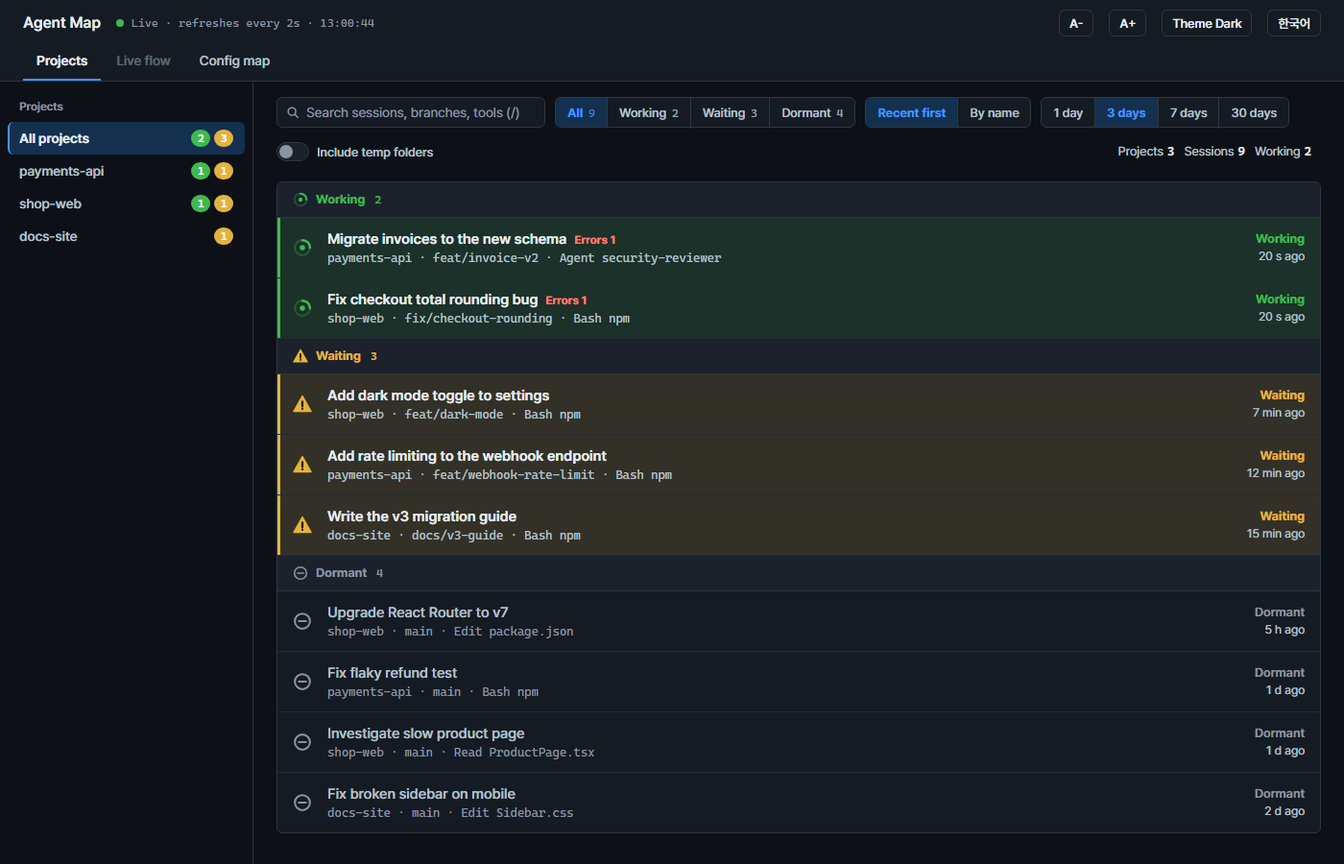
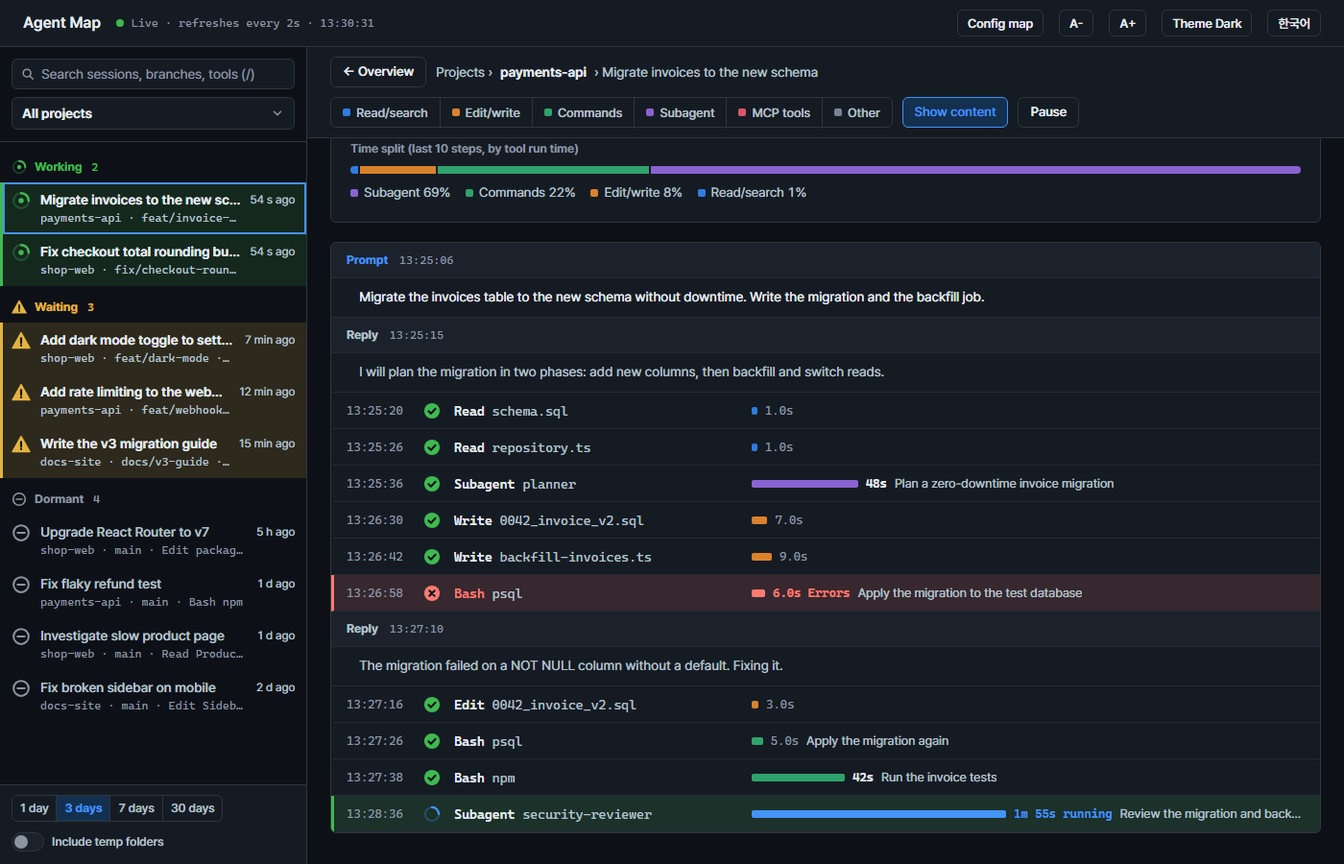
feat: session sidebar grouped by state with detail pane (0.11.0)
- Sidebar lists sessions as Working / Waiting / Dormant, project picker menu, search, period, temp-folder switch
- Selected session opens in the main pane; overview shows counts and project details
- Fix: 'just now' label crashed (returntt typo from the i18n pass)
- New screenshots and GIFs

diff --git a/scripts/live.html b/scripts/live.html
@@ -26,16 +26,13 @@ button,select,input{font:inherit;color:inherit}:focus-visible{outline:2px solid 
 .ic{display:inline-flex;width:20px;height:20px;flex:none}.ic svg{width:20px;height:20px}.ic .m{stroke:var(--onicon)}
 .ic.running{color:var(--run)}.ic.idle{color:var(--wait)}.ic.dormant{color:var(--dorm)}
 /* header */
-header{background:var(--surface);border-bottom:1px solid var(--line);padding:10px 24px 0}
+header{background:var(--surface);border-bottom:1px solid var(--line);padding:10px 24px}
 .top{display:flex;align-items:center;gap:16px;flex-wrap:wrap}
 .brand{font:600 16px/24px var(--sans);margin:0}
 .live{font:400 12px/18px var(--mono);color:var(--mut);display:flex;align-items:center;gap:8px}
 .live i{width:8px;height:8px;border-radius:50%;background:var(--run-bar)}.live.off{color:var(--err)}.live.off i{background:var(--err)}
 .sp{flex:1}
-.tabs{display:flex;gap:2px;margin-top:6px}
-.tab{height:40px;padding:0 14px;border:0;border-bottom:2px solid transparent;background:none;color:var(--sub);cursor:pointer;font:500 14px/1 var(--sans);text-decoration:none;display:inline-flex;align-items:center}
-.tab[aria-selected="true"]{color:var(--fg);border-bottom-color:var(--accent);font-weight:600}.tab:disabled{opacity:.45;cursor:default}
-.tab:hover:not(:disabled){color:var(--fg);background:var(--hover)}
+a.btn{text-decoration:none;display:inline-flex;align-items:center}
 /* controls */
 .btn{height:32px;padding:0 12px;background:var(--surface);border:1px solid var(--line);border-radius:var(--r);color:var(--fg);cursor:pointer;font:500 13.5px/1 var(--sans);transition:background-color .12s var(--ease)}
 .btn:hover{background:var(--hover)}.btn.sm{height:28px;padding:0 10px;font-size:13px}
@@ -44,7 +41,7 @@ header{background:var(--surface);border-bottom:1px solid var(--line);padding:10p
 .btn:disabled{opacity:.5;cursor:default}
 .lnk{background:none;border:0;color:var(--accent);cursor:pointer;font:500 13px/1 var(--sans);padding:0 4px;height:28px;text-decoration:underline}
 .sch{position:relative}.sch svg{position:absolute;left:10px;top:9px;width:14px;height:14px;color:var(--mut);pointer-events:none}
-input[type=search]{height:32px;width:280px;padding:0 10px 0 30px;background:var(--surface);border:1px solid var(--line);border-radius:var(--r);font-size:14px}
+input[type=search]{height:32px;width:100%;padding:0 10px 0 30px;background:var(--surface);border:1px solid var(--line);border-radius:var(--r);font-size:14px}
 input[type=search]:focus{outline:2px solid var(--accent);outline-offset:-1px;border-color:var(--accent)}input::placeholder{color:var(--mut)}
 .seg{display:inline-flex;border:1px solid var(--line);border-radius:var(--r);overflow:hidden;background:var(--surface)}
 .seg button{height:30px;padding:0 12px;border:0;border-left:1px solid var(--line);background:transparent;color:var(--sub);cursor:pointer;font:500 13px/1 var(--sans)}
@@ -55,20 +52,26 @@ input[type=search]:focus{outline:2px solid var(--accent);outline-offset:-1px;bor
 .sw i{position:relative;flex:none;width:34px;height:20px;border-radius:10px;background:var(--subtle);border:1px solid var(--line)}
 .sw i::after{content:"";position:absolute;top:2px;left:2px;width:14px;height:14px;border-radius:7px;background:var(--mut);transition:transform .12s var(--ease)}
 .sw[aria-checked="true"] i{background:var(--accent);border-color:var(--accent)}.sw[aria-checked="true"] i::after{transform:translateX(14px);background:var(--onaccent)}
-/* projects: sidebar + list */
-.wrap{display:flex;flex-direction:column;min-height:0}
-.pv{flex:1;display:grid;grid-template-columns:264px minmax(0,1fr);min-height:0}
-.side{border-right:1px solid var(--line);background:var(--canvas);overflow:auto;padding:16px 8px}
-.sh{font:600 12px/20px var(--sans);color:var(--mut);padding:0 12px 6px}
-.si2{display:flex;align-items:center;gap:8px;width:100%;min-height:34px;padding:0 12px 0 10px;border:0;border-left:2px solid transparent;border-radius:var(--r);background:none;color:var(--sub);text-align:left;cursor:pointer;font:500 14px/20px var(--sans)}
-.si2:hover{background:var(--hover);color:var(--fg)}
-.si2.on{background:var(--sel);color:var(--fg);border-left-color:var(--accent);font-weight:600}
-.si2 .sn{flex:1;overflow:hidden;text-overflow:ellipsis;white-space:nowrap}
+/* master-detail: sessions grouped by state on the left (like Paseo's workspace list), the selected session on the right */
+.app{display:grid;grid-template-columns:320px minmax(0,1fr);min-height:0}
+.mainc{display:flex;flex-direction:column;min-height:0}
+.side{display:flex;flex-direction:column;min-height:0;border-right:1px solid var(--line);background:var(--canvas)}
+.sbtop{position:relative;display:flex;flex-direction:column;gap:8px;padding:12px;border-bottom:1px solid var(--line)}
+.pick{display:flex;align-items:center;gap:8px;width:100%;height:34px;padding:0 10px;background:var(--surface);border:1px solid var(--line);border-radius:var(--r);cursor:pointer;text-align:left;font:600 14px/1 var(--sans)}
+.pick:hover{background:var(--hover)}.pick .pn{flex:1;overflow:hidden;text-overflow:ellipsis;white-space:nowrap}.pick svg{width:14px;height:14px;color:var(--mut);flex:none}
+.pmenu{position:absolute;left:12px;right:12px;top:calc(100% - 8px);z-index:6;max-height:50vh;overflow:auto;background:var(--surface);border:1px solid var(--line);border-radius:var(--r);padding:4px;box-shadow:0 8px 24px rgba(0,0,0,.18)}
+.pi{display:flex;align-items:center;gap:8px;width:100%;min-height:32px;padding:0 8px;border:0;border-radius:4px;background:none;text-align:left;cursor:pointer;color:var(--sub);font:500 14px/20px var(--sans)}
+.pi:hover{background:var(--hover);color:var(--fg)}.pi.on{background:var(--sel);color:var(--fg);font-weight:600}
+.pi .sn{flex:1;overflow:hidden;text-overflow:ellipsis;white-space:nowrap}
 .sc{display:inline-flex;gap:4px}.sc i{font:600 11.5px/18px var(--mono);font-style:normal;min-width:20px;text-align:center;padding:0 5px;border-radius:9px;color:#fff}
 .sc i.run{background:var(--run-bar)}.sc i.idle{background:var(--wait-bar)}
-.pm{overflow:auto;padding:16px 24px 32px}
-.bar{display:flex;gap:10px;align-items:center;flex-wrap:wrap;margin-bottom:16px}
-.sum{margin-left:auto;color:var(--sub);font-size:13px}.sum b{font:600 13px/20px var(--mono);color:var(--fg);margin:0 10px 0 4px}
+.sbody{flex:1;overflow:auto;padding:4px 0 12px}
+.sbfoot{display:flex;align-items:center;gap:8px 12px;flex-wrap:wrap;padding:10px 12px;border-top:1px solid var(--line);background:var(--surface)}
+.sbfoot .seg button{height:26px;padding:0 8px;font-size:12.5px}.sbfoot .sw{height:26px;font-size:12.5px}
+.pm{flex:1;overflow:auto;padding:16px 24px 32px}
+.ovs{display:grid;grid-template-columns:repeat(3,minmax(0,1fr));border:1px solid var(--line);border-radius:var(--r);background:var(--surface);margin-bottom:16px}
+.ovs div{padding:14px 18px;border-left:1px solid var(--line)}.ovs div:first-child{border-left:0}
+.ovs b{display:block;font:600 24px/32px var(--mono)}.ovs span{font:500 13px/20px var(--sans);color:var(--mut)}.ovs .run b{color:var(--run)}.ovs .wait b{color:var(--wait)}
 .phd{background:var(--surface);border:1px solid var(--line);border-radius:var(--r);padding:16px 20px;margin-bottom:16px}
 .phn{display:flex;align-items:baseline;gap:12px;flex-wrap:wrap}.phn b{font:600 20px/28px var(--sans)}
 .path{font:400 12.5px/20px var(--mono);color:var(--mut);margin:0;overflow-wrap:anywhere}
@@ -80,29 +83,29 @@ input[type=search]:focus{outline:2px solid var(--accent);outline-offset:-1px;bor
 .ub{display:block;height:6px;border-radius:3px;background:var(--line2);overflow:hidden}.ub i{display:block;height:100%;background:var(--accent);border-radius:3px}
 .uc{font:400 12px/16px var(--mono);color:var(--mut);text-align:right}
 .tl{display:flex;gap:6px;flex-wrap:wrap}.tl span{font:400 12.5px/20px var(--mono);border:1px solid var(--line);border-radius:var(--r);padding:0 8px;color:var(--sub);background:var(--subtle)}
-.list{border:1px solid var(--line);border-radius:var(--r);background:var(--surface);overflow:hidden}
-.gr{display:flex;align-items:center;gap:8px;padding:8px 16px;background:var(--subtle);border-bottom:1px solid var(--line);font:700 13px/20px var(--sans)}
+.gr{display:flex;align-items:center;gap:8px;padding:12px 12px 6px;font:700 12.5px/20px var(--sans)}
 .gr .gc{font:600 12px/20px var(--mono);margin-left:2px}
-.gr.running{color:var(--run)}.gr.idle{color:var(--wait)}.gr.dormant{color:var(--dorm)}.gr.name{color:var(--fg)}
+.gr.running{color:var(--run)}.gr.idle{color:var(--wait)}.gr.dormant{color:var(--dorm)}
 .gr .ic,.gr .ic svg{width:16px;height:16px}
-.r{position:relative;border-bottom:1px solid var(--line2)}.r:last-child{border-bottom:0}
-.rm{display:grid;grid-template-columns:24px minmax(0,1fr) auto;gap:0 12px;align-items:center;width:100%;padding:11px 16px 11px 13px;border:0;border-left:3px solid transparent;background:none;text-align:left;cursor:pointer;color:inherit}
-.r.running{background:var(--run-bg)}.r.running .rm{border-left-color:var(--run-bar)}
-.r.idle{background:var(--wait-bg)}.r.idle .rm{border-left-color:var(--wait-bar)}
-.r:hover{filter:brightness(.97)}.r.dormant:hover{filter:none;background:var(--hover)}
-.rt{font:600 15px/22px var(--sans);color:var(--fg);overflow:hidden;text-overflow:ellipsis;white-space:nowrap;display:block}
-.r.dormant .rt{font-weight:500;color:var(--sub)}
+.sri{position:relative;border-left:3px solid transparent}
+.sim{display:grid;grid-template-columns:20px minmax(0,1fr) auto;gap:0 10px;align-items:start;width:100%;padding:8px 12px 8px 9px;border:0;background:none;text-align:left;cursor:pointer;color:inherit}
+.sim .ic{margin-top:1px}
+.sri.running{background:var(--run-bg);border-left-color:var(--run-bar)}
+.sri.idle{background:var(--wait-bg);border-left-color:var(--wait-bar)}
+.sri:hover{filter:brightness(.97)}.sri.dormant:hover{filter:none;background:var(--hover)}
+.sri.sel{box-shadow:inset 0 0 0 2px var(--accent)}
+.rt{font:600 14px/20px var(--sans);color:var(--fg);display:block;overflow:hidden;text-overflow:ellipsis;white-space:nowrap}
+.sri.dormant .rt{font-weight:500;color:var(--sub)}
 .etag{font:700 12px/18px var(--sans);color:var(--err);margin-left:8px}
-.rmeta{font:400 12.5px/18px var(--mono);color:var(--sub);overflow:hidden;text-overflow:ellipsis;white-space:nowrap;display:block}
-.r.dormant .rmeta{color:var(--mut)}
-.rr{text-align:right;min-width:92px}.rs{display:block;font:700 13px/18px var(--sans)}.rtm{display:block;font:400 12.5px/18px var(--sans);color:var(--sub)}
-.rs.running{color:var(--run)}.rs.idle{color:var(--wait)}.rs.dormant{color:var(--dorm);font-weight:600}
-.rx{position:absolute;right:12px;top:50%;transform:translateY(-50%);opacity:0;height:28px}
-.r:hover .rx,.rx:focus-visible{opacity:1}
-.more{display:block;width:100%;padding:10px 16px;border:0;border-top:1px solid var(--line2);background:var(--subtle);color:var(--accent);font:600 13px/20px var(--sans);text-align:left;cursor:pointer}
+.rmeta{font:400 12px/18px var(--mono);color:var(--sub);overflow:hidden;text-overflow:ellipsis;white-space:nowrap;display:block}
+.sri.dormant .rmeta{color:var(--mut)}
+.rtm{font:400 12px/20px var(--sans);color:var(--sub);white-space:nowrap}
+.rx{position:absolute;right:8px;top:6px;opacity:0;width:26px;height:26px;padding:0;display:flex;align-items:center;justify-content:center}.rx svg{width:14px;height:14px}
+.sri:hover .rx,.rx:focus-visible{opacity:1}.sri.dormant:hover .rtm{visibility:hidden}
+.more{display:block;width:100%;padding:8px 12px 8px 41px;border:0;background:none;color:var(--accent);font:600 13px/20px var(--sans);text-align:left;cursor:pointer}
 .more:hover{background:var(--hover)}
 .none{padding:48px 24px;text-align:center;color:var(--sub)}.none p{margin:0 0 8px}.none p:first-child{font-size:16px;color:var(--fg);font-weight:600}
-.ro .pa .btn,.ro .rx,.ro .fa,.ro #trashb,.ro #txtb,.ro .cleanb,.ro a.tab{display:none!important}
+.ro .pa .btn,.ro .rx,.ro .fa,.ro #trashb,.ro #txtb,.ro .cleanb,.ro #cfg{display:none!important}.ro .sri.dormant:hover .rtm{visibility:visible}
 /* flow */
 .fbar{display:flex;gap:10px;align-items:center;flex-wrap:wrap;padding:10px 24px;background:var(--surface);border-bottom:1px solid var(--line)}
 .bc{display:flex;align-items:center;gap:8px;flex-wrap:wrap;font-size:14px;color:var(--sub)}.bc b{color:var(--fg);font-weight:600}
@@ -177,46 +180,39 @@ dialog h2{font:600 18px/26px var(--sans);margin:0 0 8px}
 .dperm[aria-checked="true"] .tx2 b{color:var(--err)}
 .df{display:flex;gap:8px;justify-content:flex-end}
 #toast{position:fixed;left:24px;bottom:24px;max-width:min(560px,calc(100% - 48px));background:var(--fg);color:var(--canvas);padding:10px 14px;border-radius:var(--r);font-size:14px;line-height:20px;z-index:10}
-@media (max-width:900px){.pv{grid-template-columns:1fr;grid-template-rows:auto minmax(0,1fr)}.side{display:flex;gap:4px;overflow:auto;border-right:0;border-bottom:1px solid var(--line);padding:8px 12px}.sh{display:none}.si2{width:auto;flex:none}.kpis{grid-template-columns:repeat(3,minmax(0,1fr))}.kpi:nth-child(4){border-left:0}}
+@media (max-width:900px){.app{grid-template-columns:1fr;grid-template-rows:minmax(0,45vh) minmax(0,1fr)}.side{border-right:0;border-bottom:1px solid var(--line)}.kpis{grid-template-columns:repeat(3,minmax(0,1fr))}.kpi:nth-child(4){border-left:0}}
 @media (prefers-reduced-motion:reduce){*{transition:none!important}}
 </style></head><body>
 <header>
  <div class="top"><h1 class="brand">Agent Map</h1><span class="live" id="live"><i></i><span id="lt">연결 중</span></span><span class="sp"></span>
-  <button class="btn sm" id="zo" aria-label="글자 작게" title="글자 작게">A-</button><button class="btn sm" id="zi" aria-label="글자 크게" title="글자 크게">A+</button><button class="btn sm" id="th" title="화면 모드 바꾸기"></button><button class="btn sm" id="lg"></button></div>
- <div class="tabs" role="tablist" aria-label="보기">
-  <button class="tab" role="tab" id="t1" aria-selected="true" aria-controls="pv" tabindex="0">프로젝트</button>
-  <button class="tab" role="tab" id="t2" aria-selected="false" aria-controls="main" tabindex="-1" disabled title="프로젝트 탭에서 세션을 선택하세요">실시간 흐름</button>
-  <a class="tab" href="/map">구성 지도</a>
- </div>
+  <a class="btn sm" id="cfg" href="/map">구성 지도</a><button class="btn sm" id="zo" aria-label="글자 작게" title="글자 작게">A-</button><button class="btn sm" id="zi" aria-label="글자 크게" title="글자 크게">A+</button><button class="btn sm" id="th" title="화면 모드 바꾸기"></button><button class="btn sm" id="lg"></button></div>
 </header>
-<div class="wrap">
- <div class="fbar" id="fbar" hidden>
-  <button class="btn" id="back">← 목록</button><span class="bc" id="bc"></span><span class="sp"></span>
-  <div class="seg leg" id="leg" role="group" aria-label="도구 종류 강조"></div>
-  <button class="btn" id="txtb" aria-pressed="true" title="프롬프트와 응답의 첫 줄, 단계 설명을 보여줍니다. 이 컴퓨터에서만 볼 수 있습니다">작업 내용 표시</button><button class="btn" id="pause" aria-pressed="false">일시정지</button>
+<div class="app">
+ <aside class="side" aria-label="세션">
+  <div class="sbtop" role="search">
+   <div class="sch"><svg viewBox="0 0 16 16" fill="none" stroke="currentColor" stroke-width="1.8" stroke-linecap="round" aria-hidden="true"><circle cx="7" cy="7" r="4.5"/><path d="m10.5 10.5 3.5 3.5"/></svg><input type="search" id="q" placeholder="세션, 브랜치, 도구 검색 (/)" aria-label="세션 검색"></div>
+   <button class="pick" id="pick" aria-haspopup="listbox" aria-expanded="false" aria-label="프로젝트 선택"><span class="pn" id="pn"></span><svg viewBox="0 0 16 16" fill="none" stroke="currentColor" stroke-width="1.8" stroke-linecap="round" stroke-linejoin="round" aria-hidden="true"><path d="m4 6 4 4 4-4"/></svg></button>
+   <div class="pmenu" id="pmenu" role="listbox" hidden></div>
+  </div>
+  <nav class="sbody" id="sbody" aria-label="세션 목록"></nav>
+  <div class="sbfoot"><div class="seg" id="daysf" role="group" aria-label="기간"></div><button class="sw" id="scr" role="switch" aria-checked="false"><i></i><span>임시 작업 폴더 포함</span></button><button class="lnk" id="trashb" hidden></button></div>
+ </aside>
+ <div class="mainc">
+  <div class="fbar" id="fbar" hidden>
+   <button class="btn" id="back">← 개요</button><span class="bc" id="bc"></span><span class="sp"></span>
+   <div class="seg leg" id="leg" role="group" aria-label="도구 종류 강조"></div>
+   <button class="btn" id="txtb" aria-pressed="true" title="프롬프트와 응답의 첫 줄, 단계 설명을 보여줍니다. 이 컴퓨터에서만 볼 수 있습니다">작업 내용 표시</button><button class="btn" id="pause" aria-pressed="false">일시정지</button>
+  </div>
+  <section class="pm" id="pm"><div id="grid"></div></section>
+  <main id="main" tabindex="-1" hidden><div id="fv"></div><div id="newb" hidden><button class="btn" id="newbtn"></button></div></main>
  </div>
- <div class="pv" id="pv">
-  <nav class="side" id="side" aria-label="프로젝트"></nav>
-  <section class="pm" id="pm">
-   <div class="bar" id="pbar" role="search">
-    <div class="sch"><svg viewBox="0 0 16 16" fill="none" stroke="currentColor" stroke-width="1.8" stroke-linecap="round" aria-hidden="true"><circle cx="7" cy="7" r="4.5"/><path d="m10.5 10.5 3.5 3.5"/></svg><input type="search" id="q" placeholder="세션, 브랜치, 도구 검색 (/)" aria-label="세션 검색"></div>
-    <div class="seg" id="sf" role="group" aria-label="상태"></div>
-    <div class="seg" id="sortf" role="group" aria-label="정렬"></div>
-    <div class="seg" id="daysf" role="group" aria-label="기간"></div>
-    <button class="sw" id="scr" role="switch" aria-checked="false"><i></i><span>임시 작업 폴더 포함</span></button>
-    <button class="lnk" id="trashb" hidden></button><span class="sum" id="sum"></span>
-   </div>
-   <div id="grid"></div>
-  </section>
- </div>
- <main id="main" tabindex="-1" hidden><div id="fv"></div><div id="newb" hidden><button class="btn" id="newbtn"></button></div></main>
 </div>
 <dialog id="dlg" aria-labelledby="dt"></dialog>
 <div id="toast" role="status" hidden></div>
 <div class="sr" role="status" aria-live="polite" id="sr"></div>
 <script>
 const LANG=(()=>{try{const q=new URLSearchParams(location.search).get('lang');if(q==='ko'||q==='en')return q;const v=localStorage.getItem('agent-map-lang');if(v==='ko'||v==='en')return v}catch{}return /^ko/i.test(navigator.language||'')?'ko':'en'})();
-const EN={"Agent Map 실시간":"Agent Map Live","연결 중":"Connecting","글자 작게":"Smaller text","글자 크게":"Larger text","화면 모드 바꾸기":"Change theme","보기":"View","프로젝트":"Projects","프로젝트 탭에서 세션을 선택하세요":"Pick a session on the Projects tab","실시간 흐름":"Live flow","구성 지도":"Config map","← 목록":"← List","도구 종류 강조":"Highlight tool type","프롬프트와 응답의 첫 줄, 단계 설명을 보여줍니다. 이 컴퓨터에서만 볼 수 있습니다":"Shows the first line of prompts and replies and step descriptions. Visible on this computer only","작업 내용 표시":"Show content","일시정지":"Pause","세션, 브랜치, 도구 검색 (/)":"Search sessions, branches, tools (/)","세션 검색":"Search sessions","상태":"Status","정렬":"Sort","기간":"Period","임시 작업 폴더 포함":"Include temp folders","작업 중":"Working","작업 중 ":"Working ","대기 ":"Waiting ","대기":"Waiting","휴면":"Dormant","Claude가 작업하고 있습니다":"Claude is working","응답을 마치고 내 입력을 기다리는 중입니다":"Finished replying and waiting for your input","30분 넘게 활동이 없습니다":"No activity for over 30 minutes","읽기·검색":"Read/search","수정·쓰기":"Edit/write","명령 실행":"Commands","서브에이전트":"Subagent","MCP 도구":"MCP tools","기타":"Other","방금":"just now","초 전":" s ago","분 전":" min ago","시간 전":" h ago","일 전":" d ago","초":"s","분 ":"m ","전체":"All","전체 프로젝트":"All projects","오류 ":"Errors ",", 오류 ":", errors ","건":"","삭제…":"Delete…"," 삭제":" delete","휴면 세션 정리…":"Clean up dormant sessions…","많이 쓴 도구 (최근 호출 횟수)":"Most used tools (recent calls)","사용한 스킬":"Skills used","세션":"Sessions","조건에 맞는 세션이 없습니다":"No sessions match","검색어, 상태, 기간을 바꾸거나 임시 작업 폴더를 포함해 보세요":"Change the search, status or period, or include temp folders","접기":"Collapse","프로젝트 › ":"Projects › ","서브에이전트 ":"Subagent ","응답이 없으면 권한 승인을 기다리는 중일 수 있습니다. Claude Code 창을 확인해 보세요":"If nothing happens, it may be waiting for a permission approval. Check the Claude Code window","지금: Claude가 다음 단계를 생각하는 중":"Now: Claude is thinking about the next step","최근 요청":"Last request","마지막 응답":"Last reply","기록 구간":"Time span","턴":"Turns","도구 호출":"Tool calls","오류":"Errors","컨텍스트":"Context"," 토큰":" tokens","수정·작성한 파일":"Files edited","회":"x","읽은 파일":"Files read","오래 걸린 단계":"Slowest steps","실행한 명령":"Commands run","사용한 MCP 서버":"MCP servers used","오류가 난 단계":"Steps with errors","불러오는 중":"Loading","브랜치":"Branch","모델":"Model","이 세션 삭제…":"Delete this session…","프로젝트 목록에서 이 세션을 찾을 수 없습니다. 기간을 늘려 보세요":"Session not found in the project list. Try a longer period","시간 배분 (최근 ":"Time split (last ","단계, 도구 실행 시간 기준)":" steps, by tool run time)","작업 흐름":"Flow","프롬프트":"Prompt","응답":"Reply","진행 중":"running","소요 ":"took ","새 단계 ":"New steps ","개 · 최신으로 ↓":" · jump to latest ↓","재개":"Resume","실시간 갱신을 일시정지했습니다":"Live updates paused","실시간 갱신을 재개했습니다":"Live updates resumed","서버에 다시 연결됐습니다":"Reconnected to the server","실시간 · 2초마다 갱신 · ":"Live · refreshes every 2s · ","서버 연결이 끊겼습니다":"Lost connection to the server","연결 끊김. 서버가 종료됐다면 /agent-map:live 를 다시 실행하세요":"Disconnected. If the server stopped, run /agent-map:live again","세션 기록을 찾을 수 없습니다":"Session record not found","폴더 열기":"Open folder","상위 폴더 열기":"Open parent folder"," 폴더 열기":": open folder"," 폴더가 없어 상위 폴더 열기":": folder is gone, open parent","이 폴더는 삭제되어 없습니다. 남아 있는 가장 가까운 상위 폴더를 엽니다":"This folder was deleted. Opens the nearest parent that still exists","원래 폴더가 없어 상위 폴더를 열었습니다: ":"The folder is gone, opened its parent: ","폴더를 열었습니다: ":"Opened folder: ",". 창이 보이지 않으면 작업 표시줄을 확인하세요":". If no window appears, check the taskbar","열지 못했습니다":"Could not open it","경로 복사":"Copy path"," 경로 복사":": copy path","경로를 복사했습니다":"Path copied","복사하지 못했습니다":"Could not copy","폴더가 삭제됨":"Folder deleted","세션 삭제·정리":"Delete / clean up sessions","취소":"Cancel","휴지통 거치지 않고 바로 영구 삭제":"Delete permanently, skip the trash","켜면 되돌릴 수 없습니다. 삭제 전에 버튼을 두 번 누르게 합니다":"Cannot be undone. Asks you to press the button twice","한 번 더 누르면 영구 삭제됩니다":"Press once more to delete permanently","작은 세션 (내용이 거의 없음)":"Small session (almost no content)","작은 세션 선택":"Select small sessions","전체 선택":"Select all","선택 해제":"Clear selection","처리하지 못했습니다":"Could not complete it","휴지통 비우기":"Empty trash","영구 삭제":"Delete permanently","휴지통을 비웠습니다":"Trash emptied","비우지 못했습니다":"Could not empty it","최근 활동순":"Recent first","이름순":"By name","1일":"1 day","3일":"3 days","7일":"7 days","30일":"30 days","소프트":"Soft","라이트":"Light","다크":"Dark","화면 ":"Theme "," · 읽기 전용 접속":" · read-only access","폴더를 찾을 수 없습니다":"Folder not found","읽기 전용 접속입니다":"Read-only access","구성 지도는 이 컴퓨터에서만 볼 수 있습니다":"The config map is only available on this computer","마지막 활동":"Last activity","작업 흐름 보기":"view flow"};
+const EN={"Agent Map 실시간":"Agent Map Live","연결 중":"Connecting","글자 작게":"Smaller text","글자 크게":"Larger text","화면 모드 바꾸기":"Change theme","보기":"View","프로젝트":"Projects","프로젝트 탭에서 세션을 선택하세요":"Pick a session on the Projects tab","실시간 흐름":"Live flow","구성 지도":"Config map","← 목록":"← List","도구 종류 강조":"Highlight tool type","프롬프트와 응답의 첫 줄, 단계 설명을 보여줍니다. 이 컴퓨터에서만 볼 수 있습니다":"Shows the first line of prompts and replies and step descriptions. Visible on this computer only","작업 내용 표시":"Show content","일시정지":"Pause","세션, 브랜치, 도구 검색 (/)":"Search sessions, branches, tools (/)","세션 검색":"Search sessions","상태":"Status","정렬":"Sort","기간":"Period","임시 작업 폴더 포함":"Include temp folders","작업 중":"Working","작업 중 ":"Working ","대기 ":"Waiting ","대기":"Waiting","휴면":"Dormant","Claude가 작업하고 있습니다":"Claude is working","응답을 마치고 내 입력을 기다리는 중입니다":"Finished replying and waiting for your input","30분 넘게 활동이 없습니다":"No activity for over 30 minutes","읽기·검색":"Read/search","수정·쓰기":"Edit/write","명령 실행":"Commands","서브에이전트":"Subagent","MCP 도구":"MCP tools","기타":"Other","방금":"just now","초 전":" s ago","분 전":" min ago","시간 전":" h ago","일 전":" d ago","초":"s","분 ":"m ","전체":"All","전체 프로젝트":"All projects","오류 ":"Errors ",", 오류 ":", errors ","건":"","삭제…":"Delete…"," 삭제":" delete","휴면 세션 정리…":"Clean up dormant sessions…","많이 쓴 도구 (최근 호출 횟수)":"Most used tools (recent calls)","사용한 스킬":"Skills used","세션":"Sessions","조건에 맞는 세션이 없습니다":"No sessions match","검색어, 상태, 기간을 바꾸거나 임시 작업 폴더를 포함해 보세요":"Change the search, status or period, or include temp folders","접기":"Collapse","프로젝트 › ":"Projects › ","서브에이전트 ":"Subagent ","응답이 없으면 권한 승인을 기다리는 중일 수 있습니다. Claude Code 창을 확인해 보세요":"If nothing happens, it may be waiting for a permission approval. Check the Claude Code window","지금: Claude가 다음 단계를 생각하는 중":"Now: Claude is thinking about the next step","최근 요청":"Last request","마지막 응답":"Last reply","기록 구간":"Time span","턴":"Turns","도구 호출":"Tool calls","오류":"Errors","컨텍스트":"Context"," 토큰":" tokens","수정·작성한 파일":"Files edited","회":"x","읽은 파일":"Files read","오래 걸린 단계":"Slowest steps","실행한 명령":"Commands run","사용한 MCP 서버":"MCP servers used","오류가 난 단계":"Steps with errors","불러오는 중":"Loading","브랜치":"Branch","모델":"Model","이 세션 삭제…":"Delete this session…","프로젝트 목록에서 이 세션을 찾을 수 없습니다. 기간을 늘려 보세요":"Session not found in the project list. Try a longer period","시간 배분 (최근 ":"Time split (last ","단계, 도구 실행 시간 기준)":" steps, by tool run time)","작업 흐름":"Flow","프롬프트":"Prompt","응답":"Reply","진행 중":"running","소요 ":"took ","새 단계 ":"New steps ","개 · 최신으로 ↓":" · jump to latest ↓","재개":"Resume","실시간 갱신을 일시정지했습니다":"Live updates paused","실시간 갱신을 재개했습니다":"Live updates resumed","서버에 다시 연결됐습니다":"Reconnected to the server","실시간 · 2초마다 갱신 · ":"Live · refreshes every 2s · ","서버 연결이 끊겼습니다":"Lost connection to the server","연결 끊김. 서버가 종료됐다면 /agent-map:live 를 다시 실행하세요":"Disconnected. If the server stopped, run /agent-map:live again","세션 기록을 찾을 수 없습니다":"Session record not found","폴더 열기":"Open folder","상위 폴더 열기":"Open parent folder"," 폴더 열기":": open folder"," 폴더가 없어 상위 폴더 열기":": folder is gone, open parent","이 폴더는 삭제되어 없습니다. 남아 있는 가장 가까운 상위 폴더를 엽니다":"This folder was deleted. Opens the nearest parent that still exists","원래 폴더가 없어 상위 폴더를 열었습니다: ":"The folder is gone, opened its parent: ","폴더를 열었습니다: ":"Opened folder: ",". 창이 보이지 않으면 작업 표시줄을 확인하세요":". If no window appears, check the taskbar","열지 못했습니다":"Could not open it","경로 복사":"Copy path"," 경로 복사":": copy path","경로를 복사했습니다":"Path copied","복사하지 못했습니다":"Could not copy","폴더가 삭제됨":"Folder deleted","세션 삭제·정리":"Delete / clean up sessions","취소":"Cancel","휴지통 거치지 않고 바로 영구 삭제":"Delete permanently, skip the trash","켜면 되돌릴 수 없습니다. 삭제 전에 버튼을 두 번 누르게 합니다":"Cannot be undone. Asks you to press the button twice","한 번 더 누르면 영구 삭제됩니다":"Press once more to delete permanently","작은 세션 (내용이 거의 없음)":"Small session (almost no content)","작은 세션 선택":"Select small sessions","전체 선택":"Select all","선택 해제":"Clear selection","처리하지 못했습니다":"Could not complete it","휴지통 비우기":"Empty trash","영구 삭제":"Delete permanently","휴지통을 비웠습니다":"Trash emptied","비우지 못했습니다":"Could not empty it","최근 활동순":"Recent first","이름순":"By name","1일":"1 day","3일":"3 days","7일":"7 days","30일":"30 days","소프트":"Soft","라이트":"Light","다크":"Dark","화면 ":"Theme "," · 읽기 전용 접속":" · read-only access","폴더를 찾을 수 없습니다":"Folder not found","읽기 전용 접속입니다":"Read-only access","구성 지도는 이 컴퓨터에서만 볼 수 있습니다":"The config map is only available on this computer","마지막 활동":"Last activity","작업 흐름 보기":"view flow","프로젝트 선택":"Choose project","세션 목록":"Session list","← 개요":"← Overview"};
 const tt=s=>LANG==='en'&&EN[s]!==undefined?EN[s]:s;
 const K=(ko,en)=>LANG==='en'?en:ko;
 const $=(t,c,x)=>{const e=document.createElement(t);if(c)e.className=c;if(x!=null)e.textContent=x;return e};
@@ -236,7 +232,7 @@ const store={get:k=>{try{return localStorage.getItem(k)}catch{return null}},set:
 const el=id=>document.getElementById(id);
 const view={tab:'p',sel:null,proj:null,status:'all',expanded:new Set(),hl:null,paused:false,txt:store.get('agent-map-txt')!=='0',days:store.get('agent-map-days')||'3',sort:store.get('agent-map-sort')||'act',scr:false};
 let data=null,fdata=null,ok=true,psig='',fsig='',seenT='',newCount=0;
-const ago=ts=>{const s=Math.max(0,(Date.now()-Date.parse(ts))/1000);if(s<10)returntt('방금');if(s<60)return Math.floor(s)+tt('초 전');if(s<3600)return Math.floor(s/60)+tt('분 전');if(s<86400)return Math.floor(s/3600)+tt('시간 전');return Math.floor(s/86400)+tt('일 전')};
+const ago=ts=>{const s=Math.max(0,(Date.now()-Date.parse(ts))/1000);if(s<10)return tt('방금');if(s<60)return Math.floor(s)+tt('초 전');if(s<3600)return Math.floor(s/60)+tt('분 전');if(s<86400)return Math.floor(s/3600)+tt('시간 전');return Math.floor(s/86400)+tt('일 전')};
 const hms=ts=>{if(!ts)return'';const d=new Date(ts),p=n=>String(n).padStart(2,'0');return p(d.getHours())+':'+p(d.getMinutes())+':'+p(d.getSeconds())};
 const fmtDur=ms=>ms<1000?'':ms<60000?(ms/1000).toFixed(ms<10000?1:0)+tt('초'):Math.floor(ms/60000)+tt('분 ')+Math.round(ms%60000/1000)+tt('초');
 const cat=e=>e.k==='agent'?'--c-agent':e.k!=='tool'?'--c-other':e.name.startsWith('mcp__')?'--c-mcp':/^(Read|Grep|Glob|WebFetch|WebSearch|LSP)$/.test(e.name)?'--c-read':/^(Edit|Write|MultiEdit|NotebookEdit)$/.test(e.name)?'--c-write':/^(Bash|PowerShell|Monitor)$/.test(e.name)?'--c-bash':'--c-other';
@@ -249,11 +245,9 @@ function keepFocus(fn){const a=document.activeElement,k=a&&a.dataset&&a.dataset.
 /* ---------- routing: #p, #p/<project>, #f/<project>/<session> ---------- */
 function route(){const h=location.hash.slice(1).split('/');
  if(h[0]==='f'&&h[1]&&h[2]){const n=decodeURIComponent(h[1]),s=decodeURIComponent(h[2]);if(!view.sel||view.sel.sid!==s){view.sel={dir:n,sid:s};fdata=null;fsig='';seenT='';newCount=0}view.tab='f'}
- else{view.tab='p';view.proj=h[0]==='p'&&h[1]?decodeURIComponent(h[1]):null}
- el('t2').disabled=!view.sel;el('t2').removeAttribute('title');
- el('t1').setAttribute('aria-selected',view.tab==='p');el('t2').setAttribute('aria-selected',view.tab==='f');el('t1').tabIndex=view.tab==='p'?0:-1;el('t2').tabIndex=view.tab==='f'?0:-1;
- el('fbar').hidden=view.tab!=='f';el('pv').hidden=view.tab!=='p';el('main').hidden=view.tab!=='f';el('newb').hidden=true;
- psig='';fsig='';if(view.tab==='p'){if(data){statusBar();drawProjects(true)}}else{drawFlow();pollFlow()}}
+ else{view.tab='p';if(h[0]==='p'&&h[1])view.proj=decodeURIComponent(h[1])}
+ el('fbar').hidden=view.tab!=='f';el('pm').hidden=view.tab!=='p';el('main').hidden=view.tab!=='f';el('newb').hidden=true;
+ psig='';fsig='';statusBar();if(data)drawProjects(true);if(view.tab==='f'){drawFlow();pollFlow()}}
 const openFlow=(p,s)=>{view.sel={dir:p.dir,sid:s.sid,name:p.name,title:s.title};location.hash='f/'+encodeURIComponent(p.dir)+'/'+encodeURIComponent(s.sid)};
 addEventListener('hashchange',route);
 
@@ -263,23 +257,26 @@ const ORD={running:0,idle:1,dormant:2};
 function baseRows(){if(!data)return[];const q=el('q').value.trim().toLowerCase(),out=[];
  for(const p of data.projects){if(!view.scr&&p.scratch)continue;if(view.proj&&p.dir!==view.proj)continue;for(const s of p.sessions)if(matchS(p,s,q))out.push({p,s})}
  return out}
-function statusBar(){const rows=baseRows(),c={all:rows.length,running:0,idle:0,dormant:0};for(const r of rows)c[r.s.status]++;
- const sf=el('sf');sf.textContent='';for(const [k,l] of [['all',tt('전체')],['running',tt('작업 중')],['idle',tt('대기')],['dormant',tt('휴면')]]){const b=$('button',0,l);b.append($('b',0,String(c[k])));b.setAttribute('aria-pressed',view.status===k);if(k==='idle')b.title=STT.idle;b.onclick=()=>{view.status=k;statusBar();drawProjects(true)};sf.append(b)}}
-function drawSide(){const sd=el('side');sd.textContent='';sd.append($('div','sh',tt('프로젝트')));
- const ps=data?data.projects.filter(p=>view.scr||!p.scratch):[];
- const mk=(name,dir,run,idle)=>{const b=$('button','si2'+(view.proj===dir?' on':''));b.dataset.k='p:'+(dir||'all');b.setAttribute('aria-current',String(view.proj===dir));b.append($('span','sn',name));
+function statusBar(){const p=view.proj&&data&&data.projects.find(x=>x.dir===view.proj);el('pn').textContent=p?p.name:tt('전체 프로젝트')}
+/* project picker: a menu instead of a long project list, so the sidebar can be all about sessions */
+const pick=el('pick'),pmenu=el('pmenu');
+function drawMenu(){pmenu.textContent='';const ps=data?data.projects.filter(p=>view.scr||!p.scratch):[];
+ const mk=(name,dir,run,idle)=>{const b=$('button','pi'+(view.proj===dir?' on':''));b.setAttribute('role','option');b.setAttribute('aria-selected',String(view.proj===dir));b.append($('span','sn',name));
   const c=$('span','sc');if(run){const i=$('i','run',String(run));i.title=tt('작업 중 ')+run;c.append(i)}if(idle){const i=$('i','idle',String(idle));i.title=tt('대기 ')+idle;c.append(i)}b.append(c);
-  b.onclick=()=>{location.hash=dir?'p/'+encodeURIComponent(dir):'p'};return b};
- const all=ps.reduce((a,p)=>[a[0]+p.sessions.filter(s=>s.status==='running').length,a[1]+p.sessions.filter(s=>s.status==='idle').length],[0,0]);
- sd.append(mk(tt('전체 프로젝트'),null,all[0],all[1]));
- const sorted=[...ps].sort((a,b)=>view.sort==='name'?a.name.localeCompare(b.name):(b.running-a.running)||(Date.parse(b.lastTs)-Date.parse(a.lastTs)));
- for(const p of sorted)sd.append(mk(p.name,p.dir,p.sessions.filter(s=>s.status==='running').length,p.sessions.filter(s=>s.status==='idle').length))}
-function sessionRow(p,s,showProj){const r=$('div','r '+s.status),b=$('button','rm');b.dataset.k='s:'+s.sid;
+  b.onclick=()=>{closeMenu();setProj(dir)};return b};
+ const n=(p,k)=>p.sessions.filter(s=>s.status===k).length;
+ pmenu.append(mk(tt('전체 프로젝트'),null,ps.reduce((a,p)=>a+n(p,'running'),0),ps.reduce((a,p)=>a+n(p,'idle'),0)));
+ for(const p of [...ps].sort((a,b)=>(b.running-a.running)||(Date.parse(b.lastTs)-Date.parse(a.lastTs))))pmenu.append(mk(p.name,p.dir,n(p,'running'),n(p,'idle')))}
+const closeMenu=()=>{pmenu.hidden=true;pick.setAttribute('aria-expanded','false')};
+pick.onclick=()=>{if(pmenu.hidden){drawMenu();pmenu.hidden=false;pick.setAttribute('aria-expanded','true')}else closeMenu()};
+document.addEventListener('click',e=>{if(!pmenu.hidden&&!pmenu.contains(e.target)&&!pick.contains(e.target))closeMenu()});
+function setProj(dir){view.proj=dir;psig='';statusBar();drawProjects(true);if(view.tab==='p')location.hash=pHash()}
+function sessionRow(p,s,showProj){const sel=!!(view.sel&&view.sel.sid===s.sid),r=$('div','sri '+s.status+(sel?' sel':'')),b=$('button','sim');b.dataset.k='s:'+s.sid;
  const mid=$('span');const t=$('span','rt',s.title);if(s.errs)t.append($('span','etag',tt('오류 ')+s.errs));
  mid.append(t,$('span','rmeta',[showProj?p.name:'',s.branch&&s.branch!=='HEAD'?s.branch:'',lastText(s.last)].filter(Boolean).join('  ·  ')));
- const rr=$('span','rr');rr.append($('span','rs '+s.status,ST[s.status]),$('span','rtm',ago(s.lastTs)));
- b.append(icon(s.status),mid,rr);b.setAttribute('aria-label',`${s.title}, ${ST[s.status]}${s.errs?tt(', 오류 ')+s.errs+tt('건'):''}, ${tt('작업 흐름 보기')}`);b.onclick=()=>openFlow(p,s);r.append(b);
- if(s.status==='dormant'){const x=$('button','btn sm rx',tt('삭제…'));x.setAttribute('aria-label',s.title+tt(' 삭제'));x.dataset.k='x:'+s.sid;x.onclick=()=>openClean(p,s.sid);r.append(x)}return r}
+ b.append(icon(s.status),mid,$('span','rtm',ago(s.lastTs)));
+ b.setAttribute('aria-label',`${s.title}, ${ST[s.status]}${s.errs?tt(', 오류 ')+s.errs+tt('건'):''}, ${tt('작업 흐름 보기')}`);b.setAttribute('aria-current',String(sel));b.onclick=()=>openFlow(p,s);r.append(b);
+ if(s.status==='dormant'){const x=$('button','btn sm rx');x.innerHTML=TRASHSVG;x.title=tt('삭제…');x.setAttribute('aria-label',s.title+tt(' 삭제'));x.dataset.k='x:'+s.sid;x.onclick=()=>openClean(p,s.sid);r.append(x)}return r}
 function projHeader(p){const d=$('div','phd'),n=$('div','phn');n.append($('b',0,p.name),$('span','path',p.cwd||p.dir));d.append(n,folderBtns(p));
  const ss=p.sessions,dorm=ss.filter(s=>s.status==='dormant').length;
  if(dorm){const cb=$('button','btn sm cleanb',tt('휴면 세션 정리…'));cb.dataset.k='c:'+p.dir;cb.onclick=()=>openClean(p);d.querySelector('.pa').append(cb)}
@@ -288,25 +285,25 @@ function projHeader(p){const d=$('div','phd'),n=$('div','phn');n.append($('b',0,
   for(const [nm,k] of p.top){const r=$('div','ur'),b=$('span','ub'),i=$('i');i.style.width=Math.max(4,k/mx*100)+'%';b.append(i);r.append($('span','un',toolLabel(nm)),b,$('span','uc',String(k)));r.title=nm;u.append(r)}d.append(u)}
  if(p.skills.length){const u=$('div','use');u.append($('div','ul',tt('사용한 스킬')));const tl=$('div','tl');for(const nm of p.skills)tl.append($('span',0,nm));u.append(tl);d.append(u)}
  return d}
-function drawProjects(force){const g=el('grid');if(!data)return;
+function drawProjects(force){if(!data)return;
  if(view.proj&&!data.projects.some(p=>p.dir===view.proj))view.proj=null;
  const running=data.projects.reduce((n,p)=>n+p.running,0);document.title=(running?`(${running}) `:'')+tt('Agent Map 실시간');
- const rows=baseRows(),vis=rows.filter(r=>view.status==='all'||r.s.status===view.status);
- vis.sort((a,b)=>view.sort==='name'?(a.p.name.localeCompare(b.p.name)||ORD[a.s.status]-ORD[b.s.status]||Date.parse(b.s.lastTs)-Date.parse(a.s.lastTs)):(ORD[a.s.status]-ORD[b.s.status]||Date.parse(b.s.lastTs)-Date.parse(a.s.lastTs)));
- const sum=el('sum');sum.textContent='';for(const [a,b] of [[tt('프로젝트'),new Set(rows.map(r=>r.p.dir)).size],[tt('세션'),rows.length],[tt('작업 중'),rows.filter(r=>r.s.status==='running').length]])sum.append(document.createTextNode(a),$('b',0,String(b)));
- const sig=JSON.stringify([vis.map(r=>[r.p.dir,r.s.sid,r.s.status,r.s.lastTs,r.s.errs,r.s.last&&r.s.last.name]),view.proj,view.status,view.sort,[...view.expanded],data.projects.length,Math.floor(Date.now()/30000)]);
+ const rows=baseRows();rows.sort((a,b)=>ORD[a.s.status]-ORD[b.s.status]||Date.parse(b.s.lastTs)-Date.parse(a.s.lastTs));
+ const sig=JSON.stringify([rows.map(r=>[r.p.dir,r.s.sid,r.s.status,r.s.lastTs,r.s.errs,r.s.last&&r.s.last.name]),view.proj,view.sel&&view.sel.sid,[...view.expanded],data.projects.length,Math.floor(Date.now()/30000)]);
  if(sig===psig&&!force)return;psig=sig;
- keepFocus(()=>{drawSide();g.textContent='';
-  const cur=view.proj&&data.projects.find(p=>p.dir===view.proj);if(cur)g.append(projHeader(cur));
-  if(!vis.length){const n=$('div','none');n.append($('p',0,tt('조건에 맞는 세션이 없습니다')),$('p',0,tt('검색어, 상태, 기간을 바꾸거나 임시 작업 폴더를 포함해 보세요')));g.append(n);return}
-  const L=$('div','list');const groups=new Map();
-  for(const r of vis){const k=view.sort==='name'?r.p.name:r.s.status;if(!groups.has(k))groups.set(k,[]);groups.get(k).push(r)}
-  for(const [k,arr] of groups){const byName=view.sort==='name';
-   const h=$('div','gr '+(byName?'name':k));if(!byName)h.append(icon(k));h.append($('span',0,byName?k:ST[k]),$('span','gc',String(arr.length)));if(!byName&&k==='idle')h.title=STT.idle;L.append(h);
-   const fold=!byName&&k==='dormant'&&arr.length>4&&!view.expanded.has('dormant');
-   for(const r of fold?arr.slice(0,4):arr)L.append(sessionRow(r.p,r.s,!view.proj));
-   if(!byName&&k==='dormant'&&arr.length>4){const m=$('button','more',fold?K(`휴면 ${arr.length-4}개 더 보기`,`Show ${arr.length-4} more dormant`):tt('접기'));m.dataset.k='m:dormant';m.setAttribute('aria-expanded',String(!fold));m.onclick=()=>{fold?view.expanded.add('dormant'):view.expanded.delete('dormant');drawProjects(true)};L.append(m)}}
-  g.append(L)})}
+ keepFocus(()=>{drawSessions(rows);drawOverview(rows)})}
+function drawSessions(rows){const sb=el('sbody');sb.textContent='';
+ if(!rows.length){const n=$('div','none');n.append($('p',0,tt('조건에 맞는 세션이 없습니다')),$('p',0,tt('검색어, 상태, 기간을 바꾸거나 임시 작업 폴더를 포함해 보세요')));sb.append(n);return}
+ for(const k of ['running','idle','dormant']){const arr=rows.filter(r=>r.s.status===k);if(!arr.length)continue;
+  const h=$('div','gr '+k);h.append(icon(k),$('span',0,ST[k]),$('span','gc',String(arr.length)));if(k==='idle')h.title=STT.idle;sb.append(h);
+  const fold=k==='dormant'&&arr.length>4&&!view.expanded.has('dormant');
+  for(const r of fold?arr.slice(0,4):arr)sb.append(sessionRow(r.p,r.s,!view.proj));
+  if(k==='dormant'&&arr.length>4){const m=$('button','more',fold?K(`휴면 ${arr.length-4}개 더 보기`,`Show ${arr.length-4} more dormant`):tt('접기'));m.dataset.k='m:dormant';m.setAttribute('aria-expanded',String(!fold));m.onclick=()=>{fold?view.expanded.add('dormant'):view.expanded.delete('dormant');drawProjects(true)};sb.append(m)}}}
+function drawOverview(rows){const g=el('grid');g.textContent='';
+ const cur=view.proj&&data.projects.find(p=>p.dir===view.proj);if(cur)g.append(projHeader(cur));
+ const c={running:0,idle:0,dormant:0};for(const r of rows)c[r.s.status]++;
+ const o=$('div','ovs');for(const [k,cls] of [['running','run'],['idle','wait'],['dormant','']]){const d=$('div',cls);d.append($('b',0,String(c[k])),$('span',0,ST[k]));o.append(d)}g.append(o);
+ const n=$('div','none');n.append($('p',0,K('왼쪽에서 세션을 고르면 작업 흐름을 볼 수 있습니다','Pick a session on the left to see its flow')));g.append(n)}
 
 /* ---------- flow ---------- */
 function legend(){const lg=el('leg');lg.textContent='';for(const [v,n] of CAT){const b=$('button');const i=$('i');i.style.setProperty('--c',`var(${v})`);b.append(i,document.createTextNode(n));b.setAttribute('aria-pressed',view.hl===v);b.onclick=()=>{view.hl=view.hl===v?null:v;legend();fsig='';drawFlow()};lg.append(b)}}
@@ -400,7 +397,7 @@ txtb.onclick=()=>{view.txt=!view.txt;store.set('agent-map-txt',view.txt?'1':'0')
 async function pollState(){try{const r=await fetch('/api/state?days='+view.days);if(!r.ok)throw 0;data=await r.json();
   if(!ok){ok=true;say(tt('서버에 다시 연결됐습니다'))}el('live').classList.remove('off');el('lt').textContent=tt('실시간 · 2초마다 갱신 · ')+hms(new Date())+roNote}
  catch{if(ok){ok=false;say(tt('서버 연결이 끊겼습니다'))}el('live').classList.add('off');el('lt').textContent=tt('연결 끊김. 서버가 종료됐다면 /agent-map:live 를 다시 실행하세요')}
- if(data&&view.tab==='p'){statusBar();drawProjects()}}
+ if(data){statusBar();drawProjects()}}
 async function pollFlow(){if(!view.sel||view.tab!=='f'||view.paused)return;try{const r=await fetch(`/api/flow?dir=${encodeURIComponent(view.sel.dir)}&sid=${encodeURIComponent(view.sel.sid)}&text=${view.txt?1:0}`);if(r.ok)fdata=await r.json();else if(r.status===404){fdata=null;el('fv').textContent='';el('fv').append($('div','none',tt('세션 기록을 찾을 수 없습니다')));return}}catch{}drawFlow()}
 function tick(){if(document.hidden)return;pollState();pollFlow()}
 setInterval(tick,2000);document.addEventListener('visibilitychange',tick);
@@ -456,14 +453,11 @@ el('trashb').onclick=openTrash;
 /* ---------- controls ---------- */
 const q=el('q');q.oninput=()=>{statusBar();drawProjects(true)};
 function seg(id,opts,key,after){const w=el(id);const draw=()=>{w.textContent='';for(const [v,l] of opts){const b=$('button',0,l);b.setAttribute('aria-pressed',String(view[key])===v);b.onclick=()=>{view[key]=v;store.set('agent-map-'+key,v);draw();after()};w.append(b)}};draw()}
-seg('sortf',[['act',tt('최근 활동순')],['name',tt('이름순')]],'sort',()=>{statusBar();drawProjects(true)});
 seg('daysf',[['1',tt('1일')],['3',tt('3일')],['7',tt('7일')],['30',tt('30일')]],'days',pollState);
 const sw=el('scr');const setSw=()=>sw.setAttribute('aria-checked',String(view.scr));sw.onclick=()=>{view.scr=!view.scr;setSw();statusBar();drawProjects(true)};setSw();
-el('t1').onclick=()=>{location.hash=pHash()};el('t2').onclick=()=>{if(view.sel)location.hash='f/'+encodeURIComponent(view.sel.dir)+'/'+encodeURIComponent(view.sel.sid)};
-el('t1').parentElement.addEventListener('keydown',e=>{if(e.key!=='ArrowLeft'&&e.key!=='ArrowRight')return;const t=view.tab==='p'?(view.sel?el('t2'):null):el('t1');if(t){e.preventDefault();t.click();t.focus()}});
 addEventListener('keydown',e=>{const tag=(document.activeElement||{}).tagName;
  if(e.key==='/'&&tag!=='INPUT'&&tag!=='SELECT'&&view.tab==='p'){e.preventDefault();q.focus()}
- else if(e.key==='Escape'){if(document.activeElement===q&&q.value){q.value='';statusBar();drawProjects(true)}else if(view.tab==='f')location.hash=pHash()}});
+ else if(e.key==='Escape'){if(!pmenu.hidden){closeMenu();pick.focus()}else if(document.activeElement===q&&q.value){q.value='';statusBar();drawProjects(true)}else if(view.tab==='f')location.hash=pHash()}});
 const TH=['soft','light','dark'],THN={soft:tt('소프트'),light:tt('라이트'),dark:tt('다크')};let th=store.get('agent-map-theme');if(!TH.includes(th))th='soft';{const qt=new URLSearchParams(location.search).get('theme');if(TH.includes(qt))th=qt} /* ?theme=soft|light|dark, handy for screenshots */
 const thb=el('th');const setTheme=t=>{th=t;document.documentElement.dataset.theme=t;thb.textContent=tt('화면 ')+THN[t];store.set('agent-map-theme',t)};thb.onclick=()=>setTheme(TH[(TH.indexOf(th)+1)%TH.length]);
 let zoom=+(store.get('agent-map-zoom')||1);const setZoom=z=>{zoom=Math.min(1.5,Math.max(.8,Math.round(z*100)/100));document.documentElement.style.zoom=zoom;store.set('agent-map-zoom',zoom)};

diff --git a/README.ko.md b/README.ko.md
@@ -57,7 +57,7 @@
 - **상세 패널:** 카드를 누르면 설명, 호출 방법(`/review-pr`처럼 복사 가능), 인자, 허용 도구, 파일 위치가 나옵니다. 훅은 발동 시점과 대상 도구를 한국어로 풀어 보여줍니다
 - **언어:** 한국어와 영어. 브라우저 언어를 따라가며 헤더 버튼으로 바꿉니다
 - **화면 모드:** 소프트(기본), 라이트, 다크. 헤더 버튼으로 바꾸고 기억합니다. 글자 크기는 `A-` `A+`로 조절합니다
-- **구성 지도 탭:** 실시간 대시보드에서도 같은 화면으로 오갈 수 있습니다
+- **구성 지도 버튼:** 실시간 대시보드 헤더에서도 같은 화면으로 오갈 수 있습니다
 
 보안: MCP와 훅은 이름, 주소(쿼리와 계정 정보 제거), 실행 파일 이름만 표시합니다. 인자, 환경변수, 헤더는 읽지 않습니다. HTML은 `~/.claude/agent-map/`에 저장되고 외부로 보내지 않습니다.
 
@@ -69,16 +69,16 @@
 
 `/agent-map:live`를 실행하면 이 컴퓨터에서만 열리는 작은 서버를 띄우고 브라우저로 엽니다. 2초마다 갱신하고, 서버는 30분 동안 접속이 없으면 자동으로 꺼집니다.
 
-### 프로젝트 탭
-왼쪽에 프로젝트 목록(작업 중·대기 개수 표시), 오른쪽에 세션 목록이 있습니다. GitHub Actions의 실행 목록처럼 한 줄이 세션 하나입니다.
+### 세션 사이드바
+왼쪽에 세션이 상태별로 묶여 나오고, 세션을 누르면 오른쪽에 그 세션의 작업 흐름이 바로 열립니다. 프로젝트는 사이드바 위의 선택 메뉴(작업 중·대기 개수 표시)로 고르고, 아무것도 고르지 않았을 때는 오른쪽에 상태별 세션 수가 보입니다.
 
-- 세션은 **작업 중 → 대기 → 휴면** 묶음으로 나뉩니다. 상태는 색뿐 아니라 아이콘 모양(진행 링, 경고 삼각형, 빈 원)과 글자로도 구분합니다
+- 세션은 **작업 중 → 대기 → 휴면** 묶음으로 나뉘고, 한 줄에 제목, 프로젝트·브랜치·마지막 도구, 마지막 활동 시각이 나옵니다. 지금 보고 있는 세션은 파란 테두리로 표시됩니다. 상태는 색뿐 아니라 아이콘 모양(진행 링, 경고 삼각형, 빈 원)과 글자로도 구분합니다
 - **확인이 필요한 세션이 먼저 눈에 들어오게:** 작업 중은 초록, 입력 대기는 노란색으로 행 전체를 칠하고 왼쪽에 굵은 띠를 붙입니다. 라이트·소프트·다크 모두 같습니다. 휴면은 흐리게 두고 4개만 보여준 뒤 `더 보기`로 펼칩니다
 - 오류가 난 세션은 제목 옆에 `오류 N`이 붙습니다
-- 프로젝트를 고르면 상단에 **폴더 열기**(폴더가 삭제됐으면 가장 가까운 상위 폴더를 엽니다), **경로 복사**, **많이 쓴 도구** 막대, **사용한 스킬**이 나옵니다
-- 상단에서 검색, 상태, 정렬(최근 활동순 또는 이름순), 기간(1·3·7·30일), 임시 작업 폴더 포함 여부를 고릅니다
+- 프로젝트를 고르고 세션을 선택하지 않으면 오른쪽 상단에 **폴더 열기**(폴더가 삭제됐으면 가장 가까운 상위 폴더를 엽니다), **경로 복사**, **많이 쓴 도구** 막대, **사용한 스킬**이 나옵니다
+- 사이드바에서 검색, 프로젝트, 기간(1·3·7·30일), 임시 작업 폴더 포함 여부를 고릅니다. 휴면 세션에 마우스를 올리면 삭제 버튼이 나옵니다
 
-### 실시간 흐름 탭
+### 실시간 흐름
 세션을 누르면 작업 흐름이 시간순으로 보입니다. 한 줄이 한 단계이고, 막대 길이가 걸린 시간입니다.
 
 <img src="docs/images/live-flow-ko.png" alt="세션의 도구 호출이 시간순으로 이어지고 오류 단계는 붉게 표시되는 흐름 화면" width="900">

diff --git a/README.md b/README.md
@@ -58,10 +58,10 @@ Dark theme:
 ## Features
 
 **Live dashboard (`/agent-map:live`)**
-- Sessions per project, grouped as working, waiting for input, or dormant (no activity for 30 minutes). Status is shown by icon shape and text, not color alone
+- A sidebar of sessions grouped as working, waiting for input, or dormant (no activity for 30 minutes). Click one and its flow opens on the right. Status is shown by icon shape and text, not color alone
 - Error count per session, last tool used, branch, time since last activity
 - Flow view: one row per step with a duration bar, grouped repeats (`x3`), a "now" banner, KPI strip (span, turns, tool calls, errors, subagents, context tokens), most-edited files, slowest steps, commands, MCP servers
-- Open a project folder, copy its path, search, filter, sort, 1 to 30 day window
+- Project picker, search, 1 to 30 day window; open a project folder or copy its path
 - English and Korean UI. It follows your browser language; switch with the button in the header
 - Three themes, text zoom, keyboard shortcuts (`/` search, `Esc` back)
 
